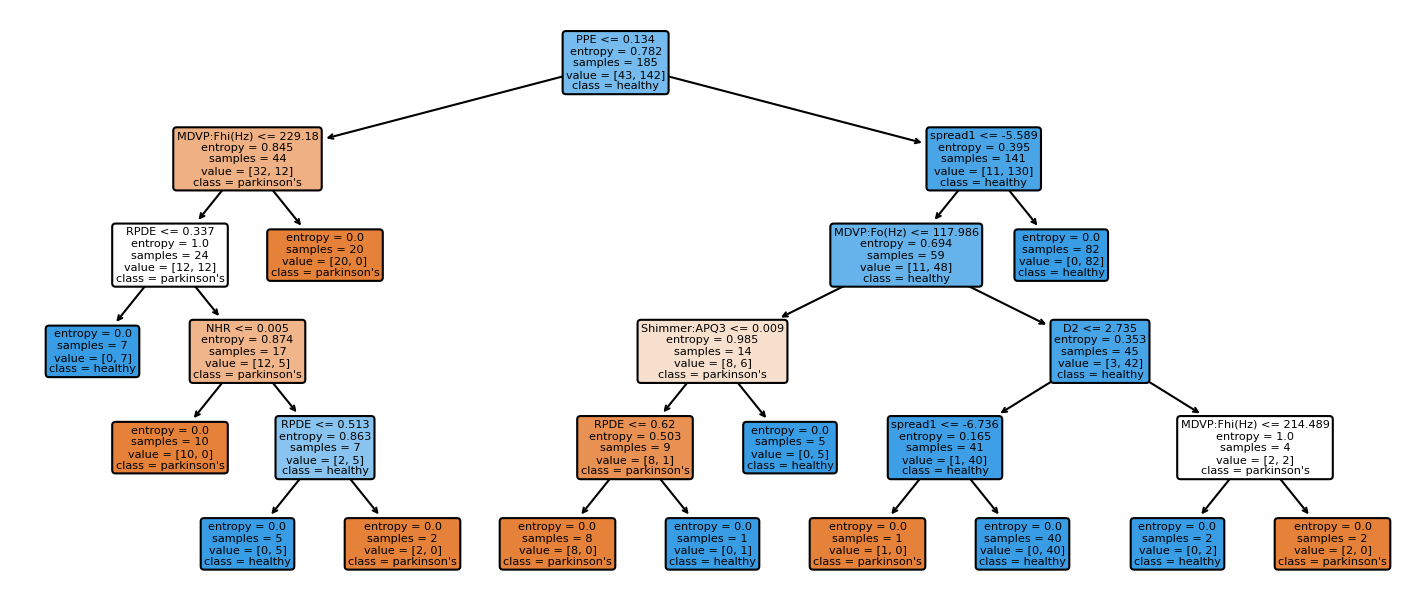
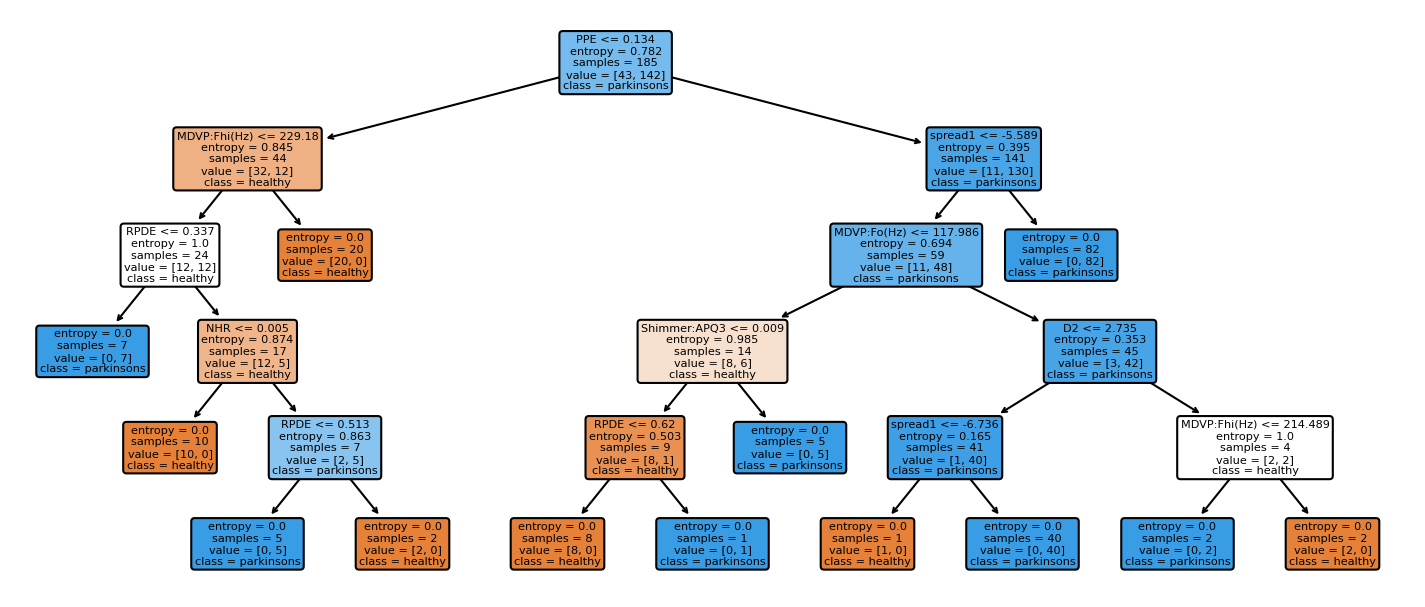
switched the classes

diff --git a/decisiontree.py b/decisiontree.py
@@ -73,7 +73,7 @@ def main(args):
     # Visualize the tree using matplotlib and plot_tree
     fig, axes = plt.subplots(nrows=1, ncols=1, figsize=(12, 5), dpi=150)
     # ***MODIFY CODE HERE***
-    classNames = ["parkinson's","healthy"]
+    classNames = ["healthy", "parkinsons"]
     plot_tree(clf,feature_names=attributes,class_names=classNames,filled=True,rounded=True)
 
     if args.save:
